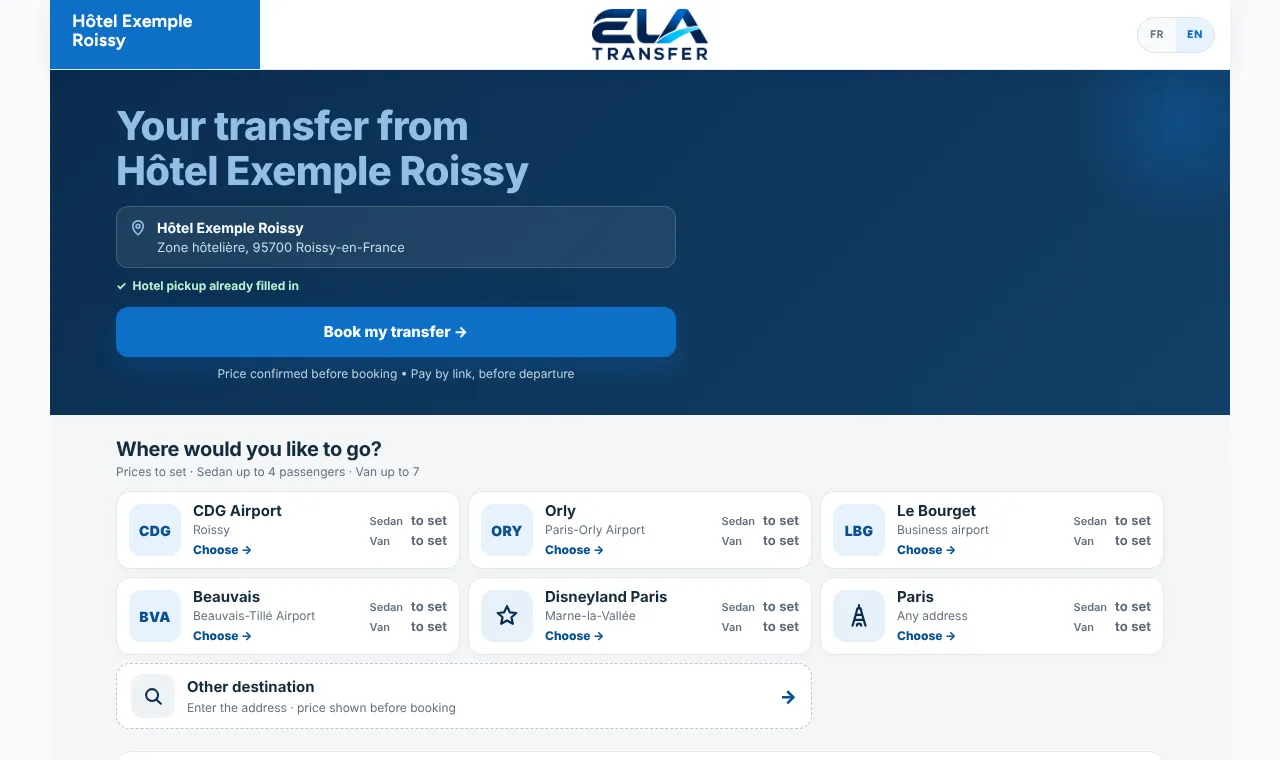
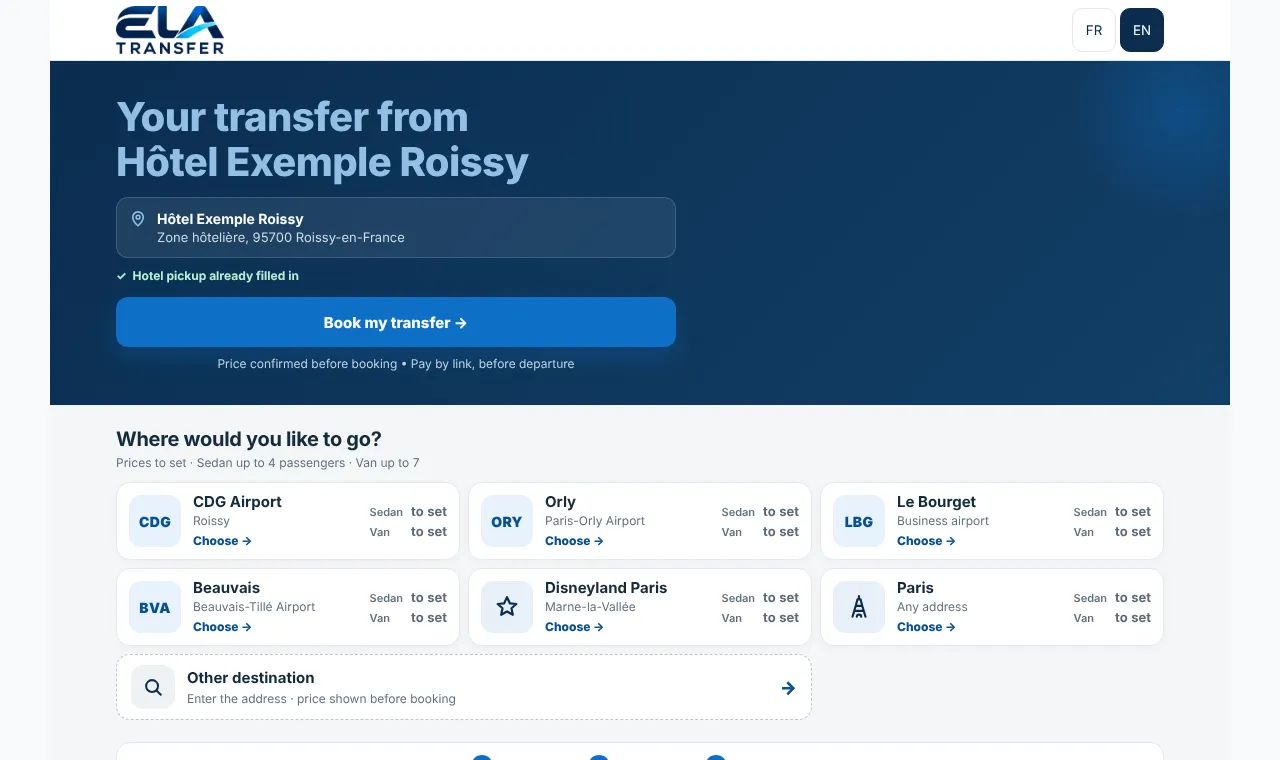
Démo : trois couleurs, le QR code expliqué, la page de réservation montrée
Barbaros : « pas de démonstration avec des couleurs moches, seulement
quelques couleurs », « bien expliquer que la landing page est associée au
QR code installé ou celui du flyer », « montrer aussi la page où les
réservations se font ».

- Personnaliser : Bleu, Bordeaux, Vert sapin ; plus de choix libre (l'or,
  l'anthracite et le violet mesurés laids ou illisibles sur la page du QR).
  Une couleur gardée d'avant n'est plus appliquée.
- L'arrivée prend l'en-tête blanc de la vraie page (FR/EN branchés sur le
  moteur) ; le test de dessin a trouvé les boutons grossis par le moteur.
- Le fil de la démo : 1 la page du QR code (posé à l'accueil ou imprimé sur
  le flyer), 2 la réservation, 3 la réception — l'étape suit la page.
- /professionnels/ : trois étapes numérotées par écran (page du QR,
  réservation, équipe), à faire glisser sur téléphone ; 18 captures, date
  et heure au format de la langue.

Claude-Session: https://claude.ai/code/session_01HhckQBdBjGmVqMPsYwy6uC

diff --git a/professionnels/index.html b/professionnels/index.html
@@ -237,10 +237,11 @@
     /* Petit téléphone : les trois boutons se partagent la largeur, sur une seule ligne. */
     @media (max-width:420px){ .ecrans{display:grid;grid-template-columns:repeat(3,minmax(0,1fr));width:100%;} .ecrans button{padding:0 4px;font-size:14px;} }
     .ecrans button:focus-visible{outline:3px solid #12C4EE;outline-offset:2px;}
-    .apercu-grille{display:grid;grid-template-columns:repeat(2,minmax(0,1fr));gap:clamp(14px,4vw,40px);align-items:start;margin-top:22px;}
+    .apercu-grille{display:grid;grid-template-columns:repeat(3,minmax(0,1fr));gap:clamp(14px,3vw,32px);align-items:start;margin-top:22px;}
     .apercu-grille[hidden]{display:none;}
-    .apercu-grille.ecran-telephone{grid-template-columns:repeat(2,minmax(0,270px));}
-    .apercu-grille.ecran-tablette{grid-template-columns:repeat(2,minmax(0,380px));}
+    .apercu-grille.ecran-telephone{grid-template-columns:repeat(3,minmax(0,250px));}
+    .apercu-grille.ecran-tablette{grid-template-columns:repeat(3,minmax(0,320px));}
+    .apercu-grille:focus-visible{outline:3px solid #12C4EE;outline-offset:4px;border-radius:12px;}
     .apercu figure{margin:0;min-width:0;}
     .apercu img{display:block;width:100%;height:auto;background:var(--fond);
       box-shadow:0 1px 2px rgba(6,47,85,.05),0 14px 36px rgba(6,47,85,.12);}
@@ -253,6 +254,12 @@
     @media (max-width:700px){
       .sans-liste,.grille.deux,.apercu-grille.ecran-ordinateur,.apercu-grille.ecran-tablette{grid-template-columns:1fr;}
       .apercu-tab{width:min(340px,88%);margin:0 auto;}
+      /* SUR UN TÉLÉPHONE, LES TROIS ÉTAPES SE FONT GLISSER, DANS L'ORDRE : trois
+         captures côte à côte n'y feraient plus que 110 px de large. La
+         suivante dépasse au bord : on voit qu'il y a une suite. */
+      .apercu-grille.ecran-telephone{grid-template-columns:none;grid-auto-flow:column;grid-auto-columns:min(66%,250px);
+        overflow-x:auto;scroll-snap-type:x mandatory;padding:4px 2px 14px;}
+      .apercu-grille.ecran-telephone > figure{scroll-snap-align:start;}
       .apercu-tel figcaption{font-size:13.5px;}
       .sans-liste li{font-size:16px;}
     }
@@ -392,7 +399,13 @@
          version ordinateur, téléphone, tablette ») : six captures par langue,
          page client et espace équipe sur téléphone (390 px), tablette (820 px)
          et ordinateur (1280 px). Un seul écran visible à la fois ; les autres
-         ne se chargent qu'au choix. La page s'ouvre sur l'écran du visiteur. -->
+         ne se chargent qu'au choix. La page s'ouvre sur l'écran du visiteur.
+         TROIS ÉTAPES (25 octobre 2026, Barbaros : « bien expliquer que la
+         landing page est associée au QR code […] et montrer aussi la page où
+         les réservations se font ») : 1 la page du QR code, 2 la page de
+         réservation, 3 l'espace équipe, numérotées dans leur légende. Sur un
+         téléphone, elles se font glisser. Fabriquées par
+         .claude/outils/captures-pro.mjs. -->
     <section class="bloc apercu" aria-labelledby="t-apercu">
       <h2 id="t-apercu" data-t="apercu_titre">Aperçu sur téléphone, tablette et ordinateur</h2>
       <div class="ecrans" role="group" aria-label="Choisir l'écran" data-t-aria="aria_ecrans">
@@ -400,40 +413,55 @@
         <button type="button" data-ecran="tablette" aria-pressed="false" data-t="ecran_tablette">Tablette</button>
         <button type="button" data-ecran="ordinateur" aria-pressed="false" data-t="ecran_ordinateur">Ordinateur</button>
       </div>
-      <div class="apercu-grille ecran-telephone" data-ecran="telephone">
+      <div class="apercu-grille ecran-telephone" data-ecran="telephone" role="region" tabindex="0" aria-label="Les trois étapes" data-t-aria="aria_etapes">
         <figure class="apercu-tel">
           <img src="/professionnels/apercu-client-telephone-fr.webp" data-src-en="/professionnels/apercu-client-telephone-en.webp" width="540" height="1052" loading="lazy" decoding="async"
-            alt="Page de réservation d'un hôtel d'exemple, sur téléphone : le nom de l'hôtel, puis ses destinations (Aéroport CDG, Orly, Le Bourget…), avec des prix à fixer par l'établissement." data-t-alt="alt_client_telephone">
-          <figcaption data-t="apercu_client">Votre page de réservation, ouverte par un lien ou un QR code.</figcaption>
+            alt="Page du QR code d'un hôtel d'exemple, sur téléphone : « Votre transfert depuis », le nom et l'adresse de l'hôtel, puis ses destinations (Aéroport CDG, Orly, Le Bourget…), avec des prix à fixer par l'établissement." data-t-alt="alt_client_telephone">
+          <figcaption data-t="apercu_client">1. Votre client scanne le QR code posé à l'accueil ou imprimé sur votre flyer : cette page s'ouvre, à votre nom.</figcaption>
+        </figure>
+        <figure class="apercu-tel">
+          <img src="/professionnels/apercu-reservation-telephone-fr.webp" data-src-en="/professionnels/apercu-reservation-telephone-en.webp" width="540" height="1052" loading="lazy" decoding="async"
+            alt="Page de réservation d'un hôtel d'exemple, sur téléphone : le départ de l'hôtel déjà rempli, la destination Orly, le terminal, la date, l'heure et le nombre de passagers." data-t-alt="alt_reservation_telephone">
+          <figcaption data-t="apercu_reservation">2. Il touche sa destination et réserve sur la page suivante : date, heure, nom et téléphone.</figcaption>
         </figure>
         <figure class="apercu-tel">
           <img src="/professionnels/apercu-equipe-telephone-fr.webp" data-src-en="/professionnels/apercu-equipe-telephone-en.webp" width="540" height="1052" loading="lazy" decoding="async"
-            alt="Espace équipe d'un hôtel d'exemple, sur téléphone : deux courses à venir, l'une en attente, l'autre validée avec le nom et le numéro de son chauffeur." data-t-alt="alt_equipe_telephone">
-          <figcaption data-t="apercu_equipe">Votre espace équipe : chaque demande et où elle en est.</figcaption>
+            alt="Espace équipe d'un hôtel d'exemple, sur téléphone : deux courses à venir, l'une en attente, l'autre validée avec le nom et le numéro de son chauffeur." data-t-alt="alt_equipe_telephone">
+          <figcaption data-t="apercu_equipe">3. Votre équipe voit chaque demande, et où elle en est.</figcaption>
         </figure>
       </div>
       <div class="apercu-grille ecran-tablette" data-ecran="tablette" hidden>
         <figure class="apercu-tab">
           <img src="/professionnels/apercu-client-tablette-fr.webp" data-src-en="/professionnels/apercu-client-tablette-en.webp" width="820" height="1100" loading="lazy" decoding="async"
-            alt="Page de réservation d'un hôtel d'exemple, sur tablette : le nom de l'hôtel, puis ses destinations (Aéroport CDG, Orly, Le Bourget…), avec des prix à fixer par l'établissement." data-t-alt="alt_client_tablette">
-          <figcaption data-t="apercu_client">Votre page de réservation, ouverte par un lien ou un QR code.</figcaption>
+            alt="Page du QR code d'un hôtel d'exemple, sur tablette : « Votre transfert depuis », le nom et l'adresse de l'hôtel, puis ses destinations (Aéroport CDG, Orly, Le Bourget…), avec des prix à fixer par l'établissement." data-t-alt="alt_client_tablette">
+          <figcaption data-t="apercu_client">1. Votre client scanne le QR code posé à l'accueil ou imprimé sur votre flyer : cette page s'ouvre, à votre nom.</figcaption>
+        </figure>
+        <figure class="apercu-tab">
+          <img src="/professionnels/apercu-reservation-tablette-fr.webp" data-src-en="/professionnels/apercu-reservation-tablette-en.webp" width="820" height="1100" loading="lazy" decoding="async"
+            alt="Page de réservation d'un hôtel d'exemple, sur tablette : le départ de l'hôtel déjà rempli, la destination Orly, le terminal, la date, l'heure et le nombre de passagers." data-t-alt="alt_reservation_tablette">
+          <figcaption data-t="apercu_reservation">2. Il touche sa destination et réserve sur la page suivante : date, heure, nom et téléphone.</figcaption>
         </figure>
         <figure class="apercu-tab">
           <img src="/professionnels/apercu-equipe-tablette-fr.webp" data-src-en="/professionnels/apercu-equipe-tablette-en.webp" width="820" height="1100" loading="lazy" decoding="async"
-            alt="Espace équipe d'un hôtel d'exemple, sur tablette : deux courses à venir, l'une en attente, l'autre validée avec le nom et le numéro de son chauffeur." data-t-alt="alt_equipe_tablette">
-          <figcaption data-t="apercu_equipe">Votre espace équipe : chaque demande et où elle en est.</figcaption>
+            alt="Espace équipe d'un hôtel d'exemple, sur tablette : deux courses à venir, l'une en attente, l'autre validée avec le nom et le numéro de son chauffeur." data-t-alt="alt_equipe_tablette">
+          <figcaption data-t="apercu_equipe">3. Votre équipe voit chaque demande, et où elle en est.</figcaption>
         </figure>
       </div>
       <div class="apercu-grille ecran-ordinateur" data-ecran="ordinateur" hidden>
         <figure class="apercu-ecran">
           <img src="/professionnels/apercu-client-ordinateur-fr.webp" data-src-en="/professionnels/apercu-client-ordinateur-en.webp" width="1280" height="760" loading="lazy" decoding="async"
-            alt="Page de réservation d'un hôtel d'exemple, sur ordinateur : le nom de l'hôtel, puis ses destinations (Aéroport CDG, Orly, Le Bourget…), avec des prix à fixer par l'établissement." data-t-alt="alt_client_ordinateur">
-          <figcaption data-t="apercu_client">Votre page de réservation, ouverte par un lien ou un QR code.</figcaption>
+            alt="Page du QR code d'un hôtel d'exemple, sur ordinateur : « Votre transfert depuis », le nom et l'adresse de l'hôtel, puis ses destinations (Aéroport CDG, Orly, Le Bourget…), avec des prix à fixer par l'établissement." data-t-alt="alt_client_ordinateur">
+          <figcaption data-t="apercu_client">1. Votre client scanne le QR code posé à l'accueil ou imprimé sur votre flyer : cette page s'ouvre, à votre nom.</figcaption>
+        </figure>
+        <figure class="apercu-ecran">
+          <img src="/professionnels/apercu-reservation-ordinateur-fr.webp" data-src-en="/professionnels/apercu-reservation-ordinateur-en.webp" width="1280" height="760" loading="lazy" decoding="async"
+            alt="Page de réservation d'un hôtel d'exemple, sur ordinateur : le départ de l'hôtel déjà rempli, la destination Orly, le terminal, la date, l'heure et le nombre de passagers." data-t-alt="alt_reservation_ordinateur">
+          <figcaption data-t="apercu_reservation">2. Il touche sa destination et réserve sur la page suivante : date, heure, nom et téléphone.</figcaption>
         </figure>
         <figure class="apercu-ecran">
           <img src="/professionnels/apercu-equipe-ordinateur-fr.webp" data-src-en="/professionnels/apercu-equipe-ordinateur-en.webp" width="1280" height="760" loading="lazy" decoding="async"
-            alt="Espace équipe d'un hôtel d'exemple, sur ordinateur : deux courses à venir, l'une en attente, l'autre validée avec le nom et le numéro de son chauffeur." data-t-alt="alt_equipe_ordinateur">
-          <figcaption data-t="apercu_equipe">Votre espace équipe : chaque demande et où elle en est.</figcaption>
+            alt="Espace équipe d'un hôtel d'exemple, sur ordinateur : deux courses à venir, l'une en attente, l'autre validée avec le nom et le numéro de son chauffeur." data-t-alt="alt_equipe_ordinateur">
+          <figcaption data-t="apercu_equipe">3. Votre équipe voit chaque demande, et où elle en est.</figcaption>
         </figure>
       </div>
       <p class="apercu-note"><span data-t="apercu_note">Captures de la démonstration, avec des données fictives.</span>
@@ -697,11 +725,16 @@
       cree3_t:"A single point of contact", cree3:"We check every request, find the right professional chauffeur in our network, assign them and confirm with the guest. A question or a last-minute change: your team calls one number.",
       apercu_titre:"Preview on phone, tablet and computer",
       aria_ecrans:"Choose the screen", ecran_telephone:"Phone", ecran_tablette:"Tablet", ecran_ordinateur:"Computer",
-      apercu_client:"Your booking page, opened from a link or a QR code.",
-      apercu_equipe:"Your team space: every request and where it stands.",
-      alt_client_telephone:"Booking page of an example hotel, on a phone: the hotel's name, then its destinations (CDG Airport, Orly, Le Bourget…), with prices to be set by the establishment.",
-      alt_client_tablette:"Booking page of an example hotel, on a tablet: the hotel's name, then its destinations (CDG Airport, Orly, Le Bourget…), with prices to be set by the establishment.",
-      alt_client_ordinateur:"Booking page of an example hotel, on a computer: the hotel's name, then its destinations (CDG Airport, Orly, Le Bourget…), with prices to be set by the establishment.",
+      aria_etapes:"The three steps",
+      apercu_client:"1. Your guest scans the QR code at your reception desk or on your flyer: this page opens, in your name.",
+      apercu_reservation:"2. They tap their destination and book on the next page: date, time, name and phone number.",
+      apercu_equipe:"3. Your team sees every request, and where it stands.",
+      alt_client_telephone:"QR code page of an example hotel, on a phone: “Your transfer from”, the hotel's name and address, then its destinations (CDG Airport, Orly, Le Bourget…), with prices to be set by the establishment.",
+      alt_client_tablette:"QR code page of an example hotel, on a tablet: “Your transfer from”, the hotel's name and address, then its destinations (CDG Airport, Orly, Le Bourget…), with prices to be set by the establishment.",
+      alt_client_ordinateur:"QR code page of an example hotel, on a computer: “Your transfer from”, the hotel's name and address, then its destinations (CDG Airport, Orly, Le Bourget…), with prices to be set by the establishment.",
+      alt_reservation_telephone:"Booking page of an example hotel, on a phone: hotel pickup already filled in, Orly as the destination, the terminal, date, time and number of passengers.",
+      alt_reservation_tablette:"Booking page of an example hotel, on a tablet: hotel pickup already filled in, Orly as the destination, the terminal, date, time and number of passengers.",
+      alt_reservation_ordinateur:"Booking page of an example hotel, on a computer: hotel pickup already filled in, Orly as the destination, the terminal, date, time and number of passengers.",
       alt_equipe_telephone:"Team space of an example hotel, on a phone: two upcoming rides, one pending, the other confirmed with its chauffeur's name and number.",
       alt_equipe_tablette:"Team space of an example hotel, on a tablet: two upcoming rides, one pending, the other confirmed with its chauffeur's name and number.",
       alt_equipe_ordinateur:"Team space of an example hotel, on a computer: two upcoming rides, one pending, the other confirmed with its chauffeur's name and number.",

diff --git a/demo-simulateur.js b/demo-simulateur.js
@@ -263,6 +263,17 @@
     if(page === "client") a1.setAttribute("aria-current", "page"); else a2.setAttribute("aria-current", "page");
     onglets.appendChild(a1); onglets.appendChild(a2);
     haut.appendChild(onglets);
+    /* LE FIL DE LA DÉMO (25/10/2026, Barbaros : « il faut bien expliquer que
+       la landing page est associée au QR code installé ou celui du flyer »).
+       Trois étapes, dites AVANT la page qu'elles décrivent : 1 la page du QR
+       code, 2 la réservation, 3 la réception. Hors de la page montrée : le
+       prospect lit la démo, ses clients ne liraient jamais ces mots. */
+    var guide = el("p", "demo-guide"); guide.id = "demoGuide";
+    guide.appendChild(el("b", "demo-guide-num"));
+    guide.appendChild(el("span", "demo-guide-texte"));
+    haut.appendChild(guide);
+    /* L'étape suit la page : les cartes (1), le formulaire et le bon (2). */
+    new MutationObserver(ecrireGuide).observe(document.body, { attributes: true, attributeFilter: ["class"] });
     haut.appendChild(construirePanneau());
 
     var suivi = el("section", "demo-suivi");
@@ -302,9 +313,33 @@
     ecrireTextes();
   }
 
+  var GUIDE = [
+    ["La page du QR code : votre client scanne le QR code posé à l'accueil ou imprimé sur votre flyer, et arrive ici, sur la page à votre nom.",
+     "The QR code page: your guest scans the QR code at your reception desk or on your flyer, and lands here, on the page in your name."],
+    ["La réservation : votre client choisit sa date et son heure, laisse son nom et son téléphone, et reçoit son bon.",
+     "The booking: your guest picks a date and time, leaves a name and phone number, and receives a booking voucher."],
+    ["Votre réception : chaque demande arrive ici, et vous voyez où elle en est.",
+     "Your front desk: every request arrives here, and you can see where it stands."]];
+  /* On n'écrit que si le texte change : l'observateur qui l'appelle ne doit
+     jamais se relancer lui-même. */
+  function ecrireGuide(){
+    var g = document.getElementById("demoGuide");
+    if(!g) return;
+    var n = racine.getAttribute("data-demo-vue") === "reception" ? 3 : document.body.classList.contains("demo-choix") ? 1 : 2;
+    var t = texte(GUIDE[n - 1][0], GUIDE[n - 1][1]);
+    if(n === 3 && equipe()) t = texte("Votre équipe : chaque demande arrive ici, et vous voyez où elle en est.",
+                                      "Your team: every request arrives here, and you can see where it stands.");
+    var num = g.querySelector(".demo-guide-num"), sp = g.querySelector(".demo-guide-texte");
+    if(num.textContent !== String(n)) num.textContent = String(n);
+    if(sp.textContent !== t) sp.textContent = t;
+    var aria = texte("Étape " + n + " sur 3", "Step " + n + " of 3");
+    if(num.getAttribute("aria-label") !== aria) num.setAttribute("aria-label", aria);
+  }
+
   function ecrireTextes(){
     var b = document.getElementById("demoBandeau");
     if(!b) return;
+    ecrireGuide();
     b.textContent = texte("Démonstration — aucune réservation réelle", "Demo — no real booking");
     /* L'échéance de l'accès (bloc 4, Barbaros : « il faut préciser à celui
        qui teste que ce n'est pas indéfini »). Elle vient de la réponse
@@ -380,9 +415,18 @@
   /* Les couleurs de l'hôtel fictif (celles de HOTELS_DEMO dans construire-demo.mjs). */
   var MARQUE_ORIGINE = { charbon:"#062F55", vif:"#D7EAFB", bouton:"#0E6FC7", pale:"#E8F2FD", paleEncre:"#0A4F91" };
   var photoMemoire = "";
+  /* TROIS COULEURS, ET AUCUNE AUTRE (25/10/2026, Barbaros : « pas de
+     démonstration avec des couleurs moches, seulement quelques couleurs »).
+     Mesuré sur la page du QR : l'or devenait moutarde, l'anthracite rendait
+     le bouton invisible sur le marine, le violet jurait ; le choix libre
+     permettait pire. Une page laide montrée à un directeur, c'est la nôtre. */
   var NUANCIER = [["#0E6FC7", "Bleu", "Blue"], ["#8B1E3F", "Bordeaux", "Burgundy"],
-                  ["#1F6B4F", "Vert sapin", "Forest green"], ["#9A6A1F", "Or", "Gold"],
-                  ["#2F3A45", "Anthracite", "Charcoal"], ["#5B3FA0", "Violet", "Purple"]];
+                  ["#1F6B4F", "Vert sapin", "Forest green"]];
+  /* Une couleur gardée d'avant (l'or, un choix libre) n'est plus appliquée. */
+  function couleurAdmise(hex){
+    var h = String(hex || "").toLowerCase();
+    return NUANCIER.some(function(n){ return n[0].toLowerCase() === h; }) ? h : "";
+  }
 
   function lirePerso(){
     try{
@@ -426,7 +470,7 @@
     var nom = p.nom || info.etablissement;
     var rond = document.querySelector(".demo-initiales");
     if(rond) rond.textContent = initiales(nom);
-    var c = couleurs(p.couleur);
+    var c = couleurs(couleurAdmise(p.couleur));
     if(c) Object.keys(c).forEach(function(k){ racine.style.setProperty("--h-" + k, c[k]); });
     /* La photo s'affiche dans le BANDEAU (la finition commune, comme chez
        un partenaire) ; le cadre ne garde que son rôle de bouton. */
@@ -640,14 +684,10 @@
       var b = el("button", "demo-pastille"); b.type = "button";
       b.style.background = n[0]; b.setAttribute("data-couleur", n[0]);
       b.setAttribute("aria-label", n[1]);
-      b.setAttribute("aria-pressed", String((p.couleur || "").toLowerCase() === n[0].toLowerCase()));
+      b.setAttribute("aria-pressed", String(couleurAdmise(p.couleur) === n[0].toLowerCase()));
       b.addEventListener("click", function(){ choisirCouleur(n[0]); });
       palette.appendChild(b);
     });
-    var libre = el("input"); libre.type = "color"; libre.id = "demoPersoCouleur"; libre.value = p.couleur || "#0E6FC7";
-    libre.className = "demo-couleur-libre";
-    libre.addEventListener("input", function(){ choisirCouleur(libre.value); });
-    palette.appendChild(libre);
     corps.appendChild(champ("Votre couleur", "Your colour", palette));
 
     /* Le bouton du navigateur est écrit dans SA langue (« Choose File ») : on
@@ -701,7 +741,7 @@
     raz.addEventListener("click", function(){
       photoMemoire = "";
       ecrirePerso({});
-      nom.value = ""; msg.value = ""; libre.value = "#0E6FC7";
+      nom.value = ""; msg.value = "";
       ["--h-bouton", "--h-vif", "--h-charbon", "--h-pale", "--h-paleEncre"].forEach(function(v){ racine.style.removeProperty(v); });
       try{ window.ELA_DEMO_PAGE.appliquer({}); }catch(e){}
       Object.keys(MARQUE_ORIGINE).forEach(function(k){ racine.style.setProperty("--h-" + k, MARQUE_ORIGINE[k]); });
@@ -728,7 +768,6 @@
 
     function choisirCouleur(hex){
       modifier(function(q){ q.couleur = hex; });
-      libre.value = hex;
       palette.querySelectorAll(".demo-pastille").forEach(function(b){
         b.setAttribute("aria-pressed", String(b.getAttribute("data-couleur").toLowerCase() === hex.toLowerCase()));
       });

diff --git a/demo.css b/demo.css
@@ -35,6 +35,13 @@ html[data-ela-space="demo"] .entete-nav{display:none !important}
 .demo-onglet.actif{background:#fff;color:var(--demo-nuit)}
 .demo-onglet:focus-visible,.demo-suivant:focus-visible,.demo-fin-bouton:focus-visible{outline:3px solid var(--demo-cyan);outline-offset:2px}
 
+/* ═══ LE FIL DE LA DÉMO : 1 LE QR CODE · 2 LA RÉSERVATION · 3 LA RÉCEPTION ═══ */
+.demo-guide{display:flex;align-items:flex-start;gap:10px;max-width:1180px;margin:0 auto;padding:2px 14px 10px;
+  color:#fff;font-size:14.5px;font-weight:600;line-height:1.4}
+.demo-guide-num{flex:0 0 26px;display:grid;place-items:center;width:26px;height:26px;border-radius:50%;
+  background:var(--demo-cyan);color:var(--demo-nuit);font-size:14px;font-weight:800}
+@media (min-width:900px){.demo-guide{justify-content:center;text-align:left}.demo-guide-texte{max-width:760px}}
+
 /* ═══ LE SUIVI DE LA COURSE D'ESSAI ═══ */
 .demo-suivi{max-width:1180px;margin:0 auto;padding:4px 12px 12px;color:#fff}
 .demo-suivi[hidden]{display:none}
@@ -141,7 +148,6 @@ html[data-ela-space="demo"] .langues button[aria-pressed="true"]{background:var(
 .demo-nuancier{display:flex;flex-wrap:wrap;gap:8px;align-items:center}
 .demo-pastille{width:40px;height:40px;border-radius:50%;border:3px solid #fff;box-shadow:0 0 0 1px var(--demo-filet);cursor:pointer;padding:0}
 .demo-pastille[aria-pressed="true"]{box-shadow:0 0 0 3px #151C22}
-.demo-couleur-libre{width:52px;height:42px;padding:2px;border:1px solid var(--demo-filet);border-radius:10px;background:#fff;cursor:pointer}
 .demo-dest-bloc{margin:0 0 12px;padding:0;border:0;min-width:0}
 .demo-dest-saisie{display:grid;grid-template-columns:1fr 1fr;gap:8px}
 .demo-dest-saisie #demoDestNom{grid-column:1/-1}
@@ -191,6 +197,11 @@ body:not(.demo-choix) #demoArrivee{display:none}
 html[data-ela-space="demo"][data-demo-vue="client"] body.demo-choix nav.barre{display:none}
 html[data-ela-space="demo"][data-demo-vue="client"] body.demo-choix{padding-bottom:0}
 #ecran-accueil > #demoArrivee{grid-column:1/-1}
+/* L'en-tête est celui de la vraie page du QR, blanc : celui du formulaire
+   attend le formulaire. Il ne colle pas en haut ici : le bandeau de la démo
+   y est déjà. */
+html[data-ela-space="demo"][data-demo-vue="client"] body.demo-choix header.entete{display:none!important}
+html #demoArrivee .qr-top{position:relative}
 /* La couleur du partenaire réel devient celle de l'hôtel du prospect. */
 #demoArrivee{--demo-o:var(--h-bouton,var(--demo-bleu));--demo-otexte:var(--h-paleEncre,var(--demo-encre));
   --demo-opale:var(--h-pale,var(--demo-pale));

diff --git a/memoire/demo-pro.md b/memoire/demo-pro.md
@@ -524,8 +524,45 @@ hôtels ; le P0 #399 était porté par la PR #425, aucun fichier commun).
   largeurs ; seule la largeur du nom dans une carte dépend du prix), aucune
   couleur orange peinte, rien qui déborde. Sur l'ancien code : 15 contrôles
   tombent en nommant le défaut.
-- **Les douze captures** de `/professionnels/` sont refaites par
-  `.claude/outils/captures-pro.mjs` (WebP fabriqué par Chromium, 41 à 49 Ko).
+- **Les captures** de `/professionnels/` sont refaites par
+  `.claude/outils/captures-pro.mjs` (WebP fabriqué par Chromium, 29 à 49 Ko ;
+  un navigateur par langue, lancé avec `LANG` : sinon la date des champs
+  s'écrivait « 10/25/2026 · 10:00 AM » sur une capture française).
 - Vu et laissé : après le choix d'une destination, l'en-tête collé du moteur
   recouvre la moitié haute de « ← Toutes les destinations » ; le doigt
   l'atteint (mesuré). Identique avant ce changement.
+
+### Même jour, seconde passe : trois couleurs, le QR code dit, trois étapes
+
+Barbaros, sur les captures avant/après : « pas de démonstration avec des
+couleurs moches, seulement quelques couleurs, et il faut bien expliquer que
+la landing page est associée au QR code installé ou celui du flyer et
+montrer aussi l'exemple avec la page où les réservations se font ».
+
+- **Trois couleurs, plus de choix libre** : Bleu (celui d'Elatransfer, par
+  défaut), Bordeaux, Vert sapin. Mesuré sur la page du QR avec les six
+  d'avant : l'or devenait moutarde, l'anthracite rendait le bouton invisible
+  sur le marine, le violet jurait ; le sélecteur libre permettait pire. Une
+  couleur gardée d'avant (l'or, un choix libre) n'est plus appliquée.
+  Chaque pastille donne un bouton lisible (≥ 4,5:1), éprouvé une par une.
+- **L'arrivée prend aussi l'en-tête blanc de la vraie page** (logo, FR/EN) :
+  la barre de couleur du formulaire y ajoutait une couleur que la vraie page
+  n'a pas. Ses boutons FR/EN pilotent ceux du moteur ; l'en-tête du formulaire
+  revient avec le formulaire. Le test de dessin l'a mesuré : la feuille du
+  moteur grossissait ses boutons (16 px au lieu de 13,3) — `button` et
+  `header` sont entrés dans la remise à zéro.
+- **Le fil de la démo** (`#demoGuide`, sous les onglets, hors de la page
+  montrée) : « 1 La page du QR code : votre client scanne le QR code posé à
+  l'accueil ou imprimé sur votre flyer, et arrive ici, sur la page à votre
+  nom », puis « 2 La réservation », puis « 3 Votre réception » (« votre
+  équipe » pour une agence). L'étape suit la page (classe `demo-choix`,
+  onglet). La phrase bleue sous les cartes ne redit plus le QR code : « Ces
+  prix sont ceux de votre flyer. »
+- **`/professionnels/` raconte trois étapes par écran** : 1 la page du QR code,
+  2 la page de réservation (nouvelle capture, une destination touchée, cadre
+  photo et pastilles de la démo masqués), 3 l'espace équipe — légendes
+  numérotées, la première dit « le QR code posé à l'accueil ou imprimé sur
+  votre flyer ». Sur un téléphone, les trois se font glisser (une ligne qui
+  défile, la suivante dépasse au bord) ; le contrôle de débordement de
+  `test-pro-page` ignore ce qui dépasse DANS un cadre qui défile, si le cadre
+  tient dans l'écran. 18 images, chargées à la demande.
